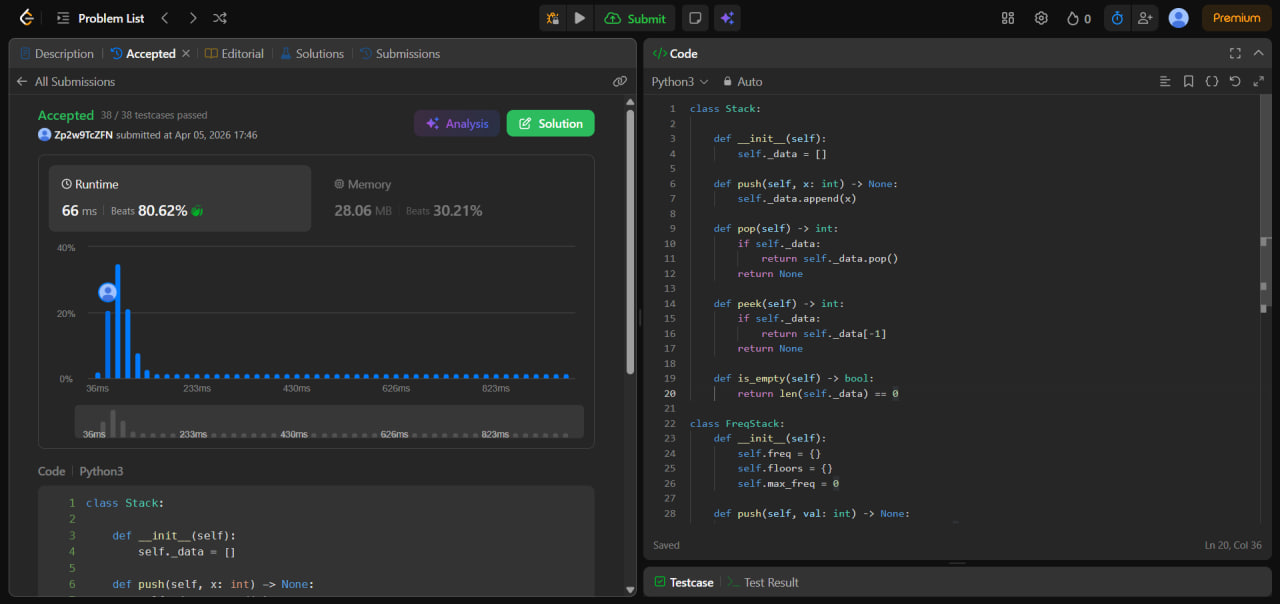
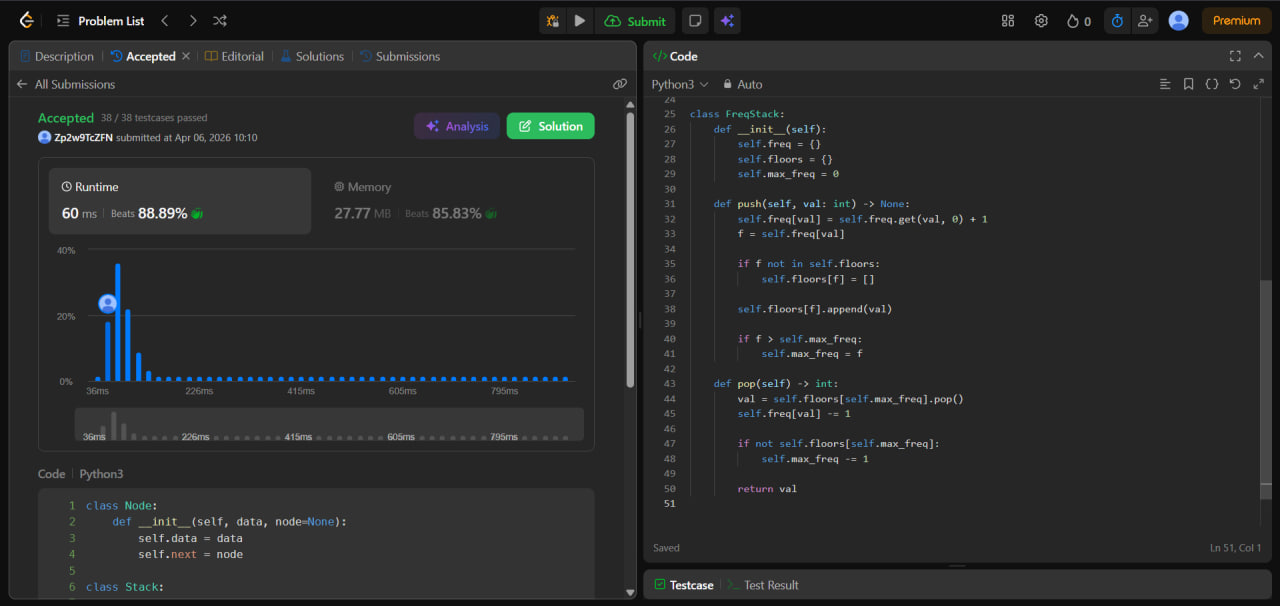
maximum_frequency_stack
Edit code by using LinkedList
Adding another picture

diff --git a/Maximum Frequency Stack/maximum_frequency_stack.py b/Maximum Frequency Stack/maximum_frequency_stack.py
@@ -1,23 +1,26 @@
+class Node:
+    def __init__(self, data, node=None):
+        self.data = data
+        self.next = node
+
 class Stack:
 
     def __init__(self):
-        self._data = []
+        self.head = None
 
     def push(self, x: int) -> None:
-        self._data.append(x)
-
-    def pop(self) -> int:
-        if self._data:
-            return self._data.pop()
-        return None
-
-    def peek(self) -> int:
-        if self._data:
-            return self._data[-1]
-        return None
+        self.head = Node(x, self.head)
 
     def is_empty(self) -> bool:
-        return len(self._data) == 0
+        return self.head is None
+
+    def pop(self) -> int:
+        result = self.head.data
+        self.head = self.head.next
+        return result
+
+    def peek(self) -> int:
+        return self.head.data
 
 class FreqStack:
     def __init__(self):
